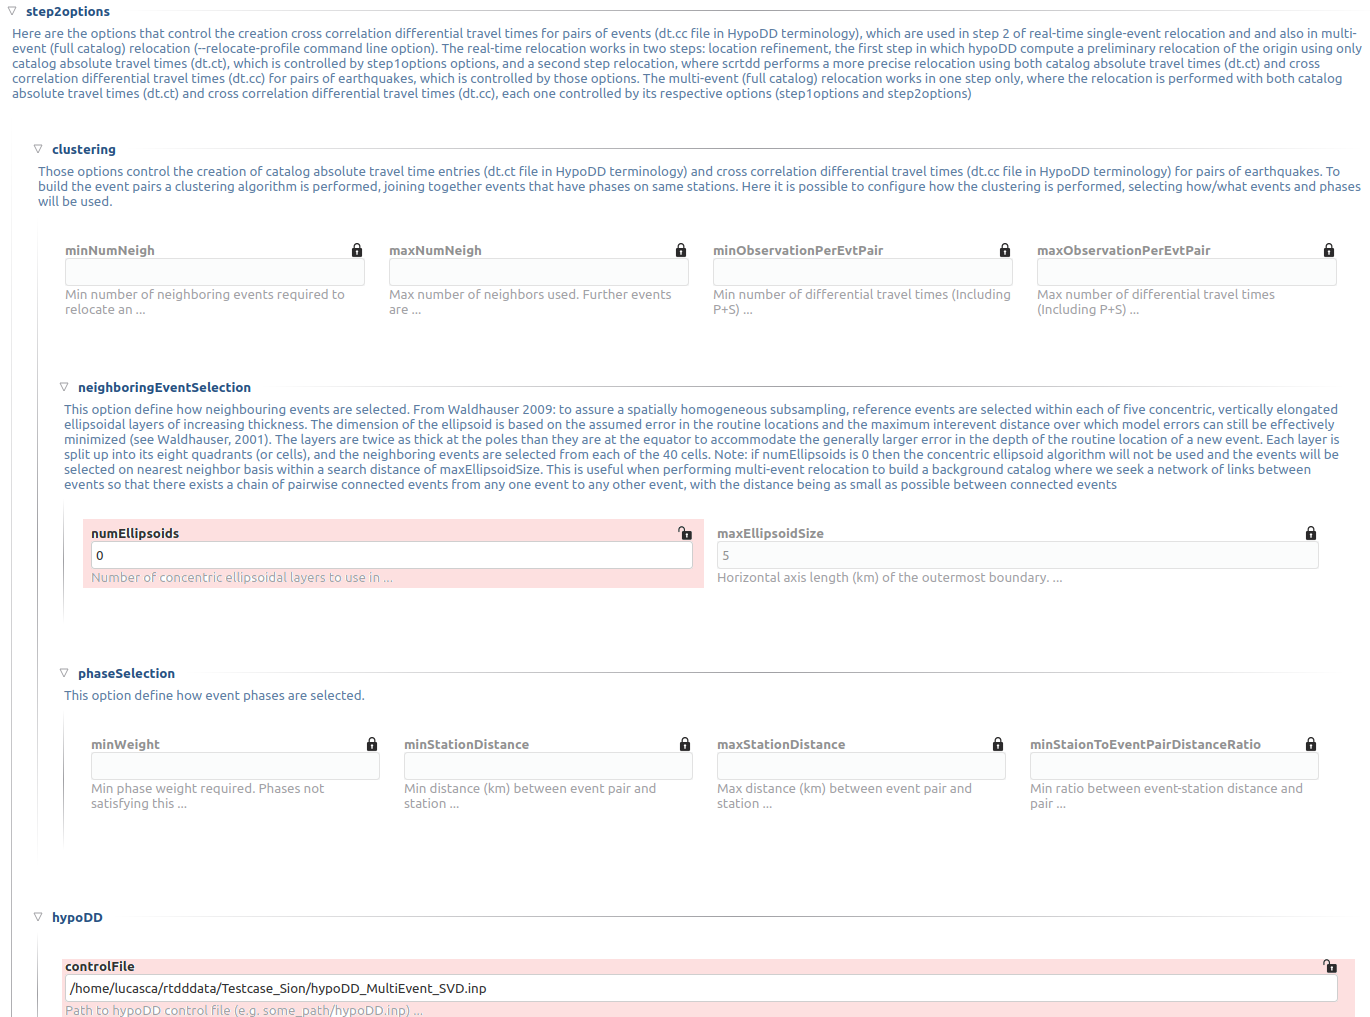
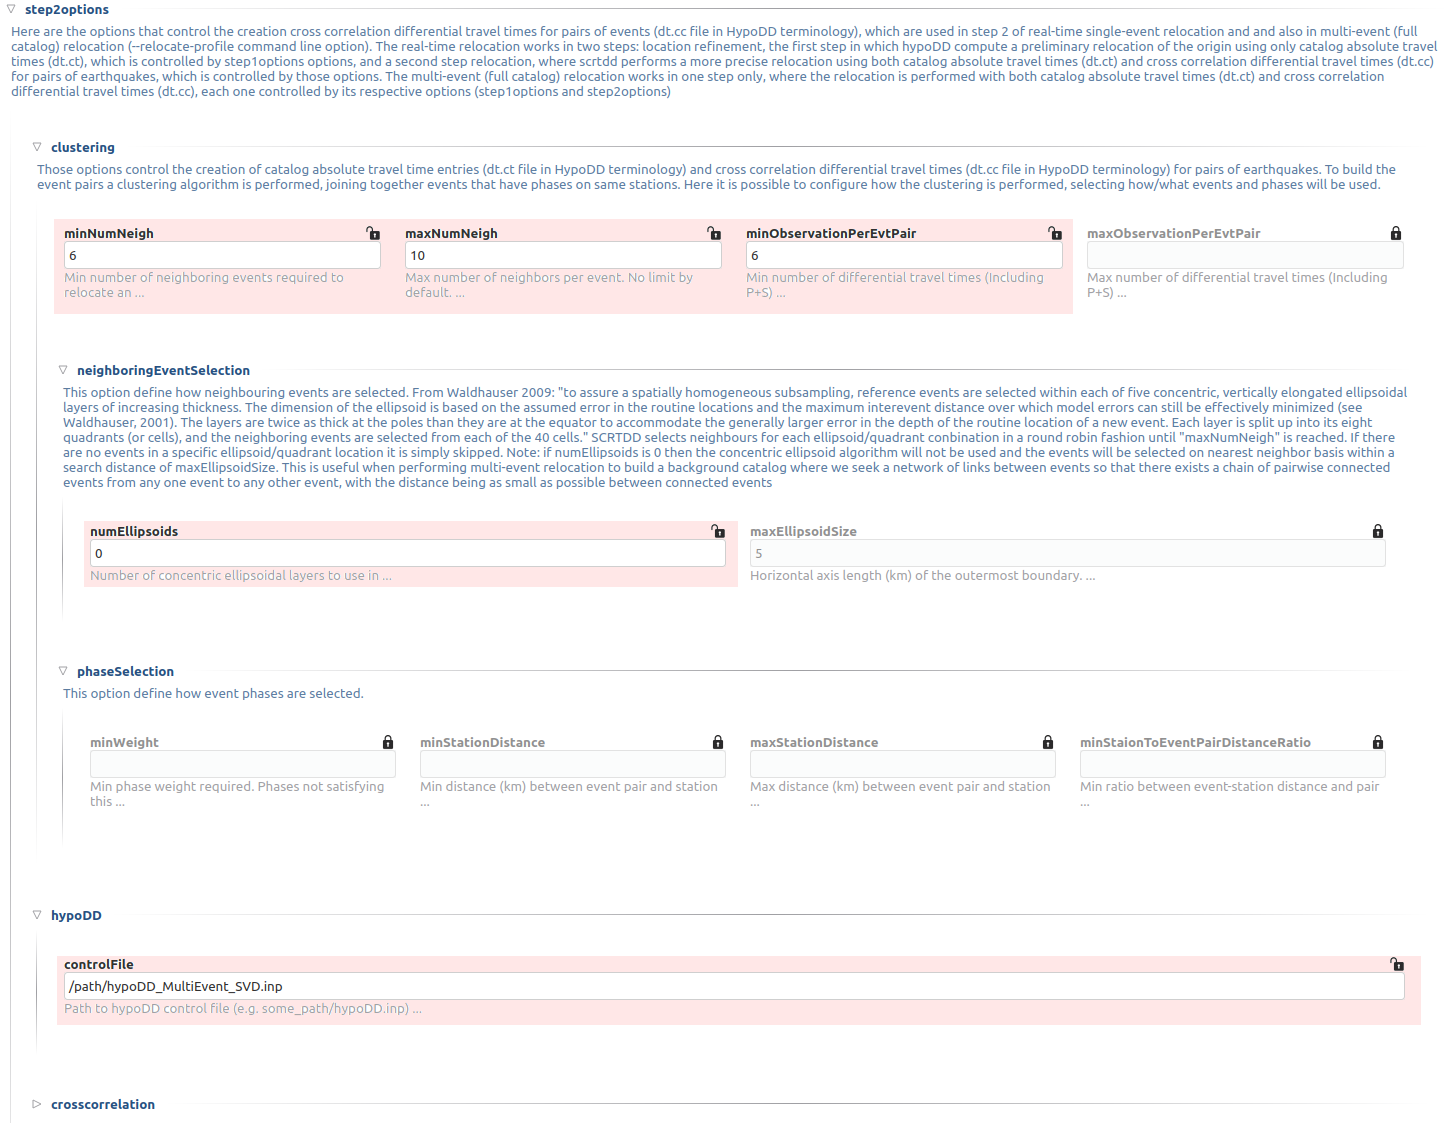
DOC: improvements

diff --git a/apps/scrtdd/rtdd.cpp b/apps/scrtdd/rtdd.cpp
@@ -278,8 +278,6 @@ RTDD::RTDD(int argc, char **argv) : Application(argc, argv)
     NEW_OPT(_config.profileTimeAlive, "performance.profileTimeAlive");
     NEW_OPT(_config.cacheWaveforms, "performance.cacheWaveforms");
 
-    NEW_OPT_CLI(_config.testMode, "Mode", "test", "Test mode, no messages are sent", false, true);
-    NEW_OPT_CLI(_config.forceProfile, "Mode", "profile", "Force a specific profile to be used", true);
     NEW_OPT_CLI(_config.loadProfile, "Mode", "load-profile-wf",
                 "Load catalog waveforms from the configured recordstream and save them into the profile working directory", true);
     NEW_OPT_CLI(_config.dumpWaveforms, "Mode", "debug-wf", "Enable the saving of waveforms (filtered/resampled, SNR rejected, ZRT projected and scrtdd detected phase) into the profile working directory. Useful when run in combination with --load-profile-wf", false, true);
@@ -296,7 +294,8 @@ RTDD::RTDD(int argc, char **argv) : Application(argc, argv)
                 "Relocate the origin (or multiple comma-separated origins) and send a message. Each origin will be processed accordingly with the matching profile region unless --profile option is used", true);
     NEW_OPT_CLI(_config.eventXML, "SingleEvent", "ep",
                 "Event parameters XML file for offline processing of contained origins (imply test option). Each contained origin will be processed accordingly with the matching profile region unless --profile option is used", true);
-
+    NEW_OPT_CLI(_config.testMode, "SingleEvent", "test", "Test mode, no messages are sent", false, true);
+    NEW_OPT_CLI(_config.forceProfile, "SingleEvent", "profile", "Force a specific profile to be used when relocating an origin. This overrides the selection of profiles based on region information and the initial origin location", true); 
     NEW_OPT_CLI(_config.relocateProfile, "MultiEvents", "reloc-profile",
                 "Relocate the catalog of profile passed as argument", true);
 }
@@ -552,9 +551,6 @@ bool RTDD::validateParameters()
         try {
             prof->ddcfg.artificialPhases.numCC = configGetInt(prefix + "numCC");
         } catch ( ... ) {  prof->ddcfg.artificialPhases.numCC = 2; }
-        try {
-            prof->ddcfg.artificialPhases.maxCCtw = configGetDouble(prefix + "maxCCtw");
-        } catch ( ... ) {  prof->ddcfg.artificialPhases.maxCCtw = 10; }
 
         prefix = string("profile.") + *it + ".step2options.waveformFiltering.";
         try {

diff --git a/apps/scrtdd/hypodd.h b/apps/scrtdd/hypodd.h
@@ -37,8 +37,8 @@ namespace HDD {
 
 struct Config {
 
-    std::vector<std::string> validPphases = {"Pg,P"};
-    std::vector<std::string> validSphases = {"Sg,S"};
+    std::vector<std::string> validPphases = {"Pg","P","Px"};
+    std::vector<std::string> validSphases = {"Sg","S","Sx"};
 
     // hypodd executable specific
     struct {

diff --git a/README.md b/README.md
@@ -136,15 +136,16 @@ To relocate a catalog (multi-event relocation) we need to create a new profile i
 
 ![Catalog selection option](/data/catalog-selection2.png?raw=true "Catalog selection from raw file format")
 
-At this point we have to configure the other profile options that control the relocation process: `step1options`, which control the creation of catalog absolute travel time entries for pairs of events (dt.ct file in HypoDD terminology), and `step2options`, which control the creation cross correlation differential travel times for pairs of events (dt.cc file in HypoDD terminology).
+At this point we have to configure the other profile options that control the relocation process: `step1options`, which control the creation of catalog absolute travel time entries for pairs of events (dt.ct file in HypoDD terminology), and `step2options`, which control the creation of cross correlated differential travel times for pairs of events (dt.cc file in HypoDD terminology). Even when the clustering options are used with the default values the relocation should work just fine, but some adjustments are worth it. For example:
 
 ![Relocation options](/data/multiEventStep1options.png?raw=true "Relocation options")
 ![Relocation options](/data/multiEventStep2options.png?raw=true "Relocation options")
-![Relocation options](/data/xcorr.png?raw=true "Relocation options")  
 
-Inside [this folder](<https://gitlab.seismo.ethz.ch/lucasca/rtdd-addons/tree/master/data>) you can find some example hypoDD configuration files.
+A more careful selection is required for the cross correlation parameters, which are covered in the next paragraph.
 
-Once we are happy witht he options, we can relocate the catalog with the command:
+In [this folder](<https://gitlab.seismo.ethz.ch/lucasca/rtdd-addons/tree/master/data>) there are some example hypoDD configuration files.
+
+Finally, when the configuration is done, we can relocate the catalog with the command:
 
 ```
 scrtdd --reloc-profile profileName
@@ -155,7 +156,12 @@ scrtdd will relocated the catalog and will generate another set of files reloc-e
 ![Catalog selection option](/data/catalog-selection3.png?raw=true "Catalog selection from raw file format")
 
 We are now ready to perform real time relocation!
+
 #### 2.2.3 Cross correlation, waveform filtering and signal to noise ratio options
+
+Those parameters require some time to be correctly set but once they are fixed they can be used for real-time relocation without any major change.
+
+![Relocation options](/data/xcorr.png?raw=true "Relocation options")
 
 To help figuring out the right values for cross correlation, waveform filtering and signal to noise ratio options, two command lines options come in handy:
 
@@ -173,17 +179,29 @@ scrtdd --help
                                         --load-profile-wf
 ```
 
-One way to take adavantage of the options is to add --debug-wf when relocating the catalog and all the used waveforms will be written to disk as miniseed file for inspection:
+One way to take adavantage of the options is to add --debug-wf when relocating the catalog and all the used waveforms will be written to disk as miniseed file for inspection (e.g. scrttv waveformfile.mseed):
 
 ```
 scrtdd --reloc-profile profileName --debug-wf
 ```
 
-If you want to inspect all the waveforms contained in the catalog, that is not only the ones used during multi event relocation, it is possible to use the --load-profile-wf option too. This option is also useful to force scrtdd to load all the waveforms and store them on disk so that they will be already available in real time relocation:
+The waveforms generated with `--debug-wf` will be stored in `workingDirectory/profileName/wfcache/` folder and follow the patters:
+
+* `NET.ST.LOC.CH.startime-endtime.mseed` (raw trace fetched from the configured recordstream)
+* `NET.ST.LOC.CH.startime-endtime.mseed.projected.debug` (raw trace projected accodingly to the pick channel: 123->ZNE->ZRT)
+* `NET.ST.LOC.CH.startime-endtime.mseed.processed.debug` (processed trace with the configured filter and resampling frequency)
+* `NET.ST.LOC.CH.startime-endtime.mseed.S2Nratio-rejected.debug` (procesed trace rejected because of the configured signal to noise ration threshold)
+* `NET.ST.LOC.CH.startime-endtime.mseed.rtdd-detected-P/S-phase-cc-xx.debug` (traces of phases automatically detected by scrtdd when the option `findMissingPhase` is enabled)
+
+
+It is also possible to inspect the waveforms of all phases contained in the catalog, not only the ones used during multi event relocation. Combine the --load-profile-wf option with --debug-wf to achieve this:
 
 ```
 scrtdd --debug-wf --load-profile-wf profileName
 ```
+
+`--load-profile-wf` option is also useful to force the loading of all catalog waveforms from the configured recordstream and store them on disk. This means they will be available in real time relocation wothout the need to access the recordstream.
+
 
 #### 2.2.4 Using ph2dt
 
@@ -248,7 +266,6 @@ After step2 the relocated origin is sent to the messaging system. If step2 fails
 
 ![Relocation options](/data/step1options.png?raw=true "Relocation options")
 ![Relocation options](/data/step2options.png?raw=true "Relocation options")
-![Relocation options](/data/xcorr.png?raw=true "Relocation options")  
 
 
 
@@ -269,6 +286,12 @@ SingleEvent:
                                         will be processed accordingly with the 
                                         matching profile region unless 
                                         --profile option is used
+  --test                                Test mode, no messages are sent
+  --profile arg                         Force a specific profile to be used 
+                                        when relocating an origin. This 
+                                        override the selection of profile based
+                                        on region information and the initial 
+                                        origin location
 
 ```
 
